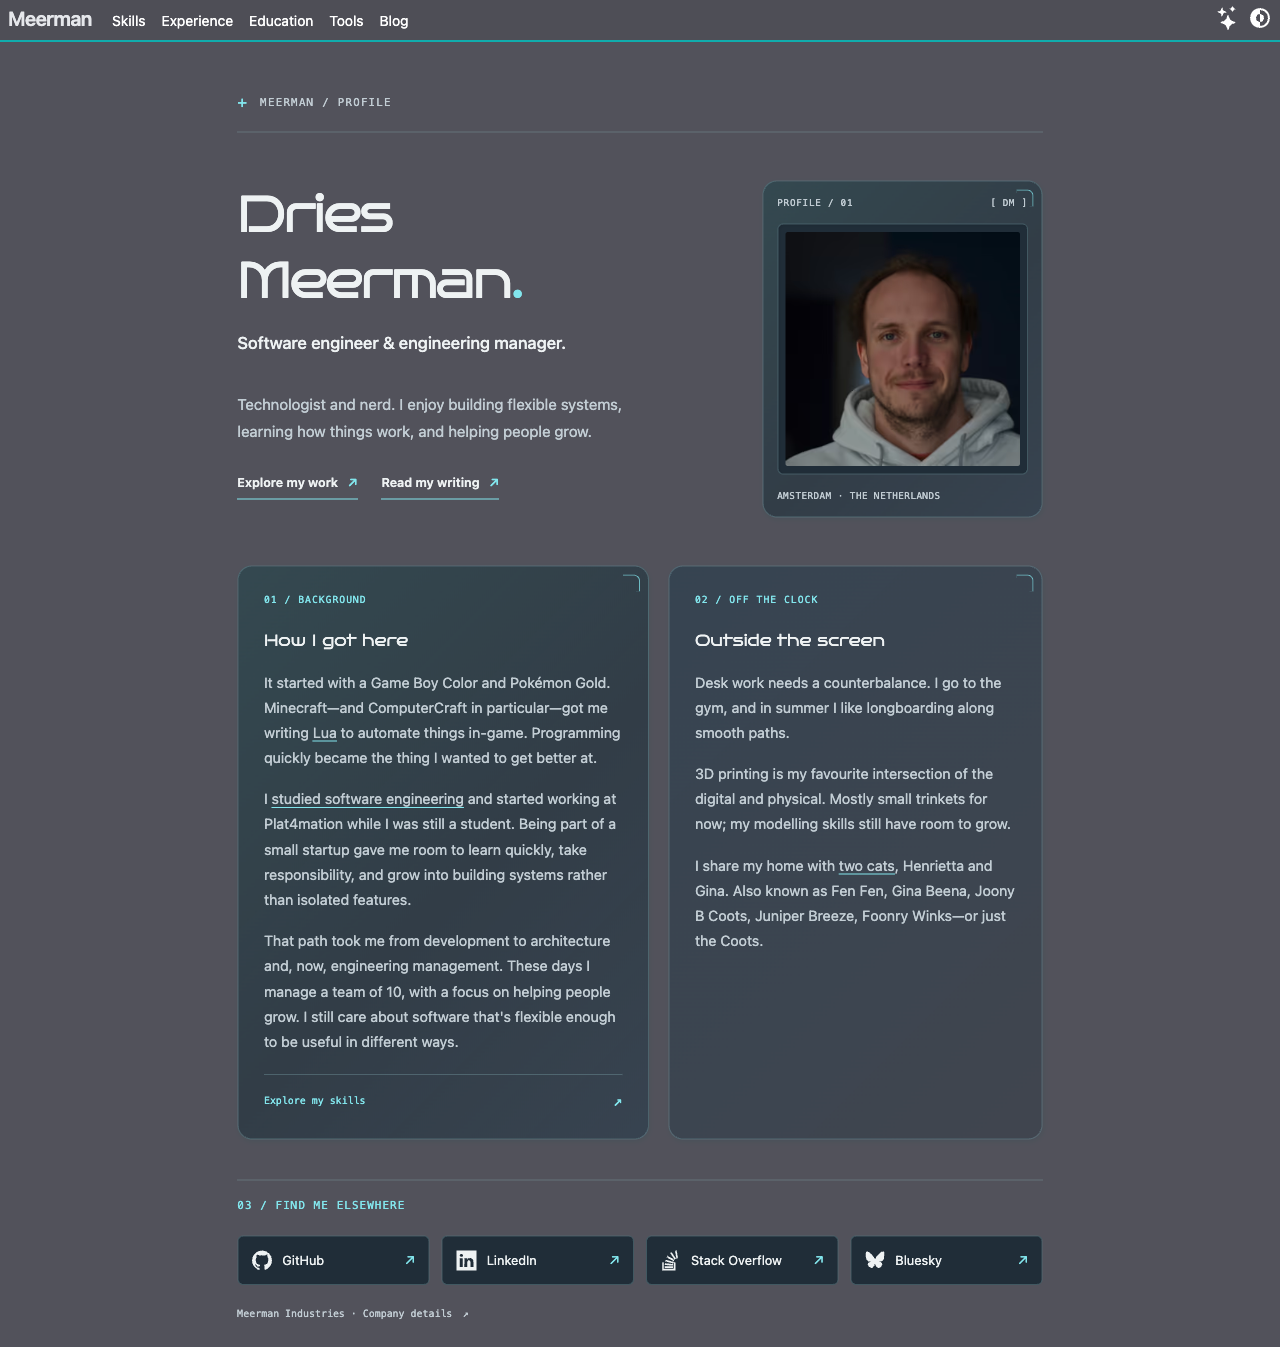
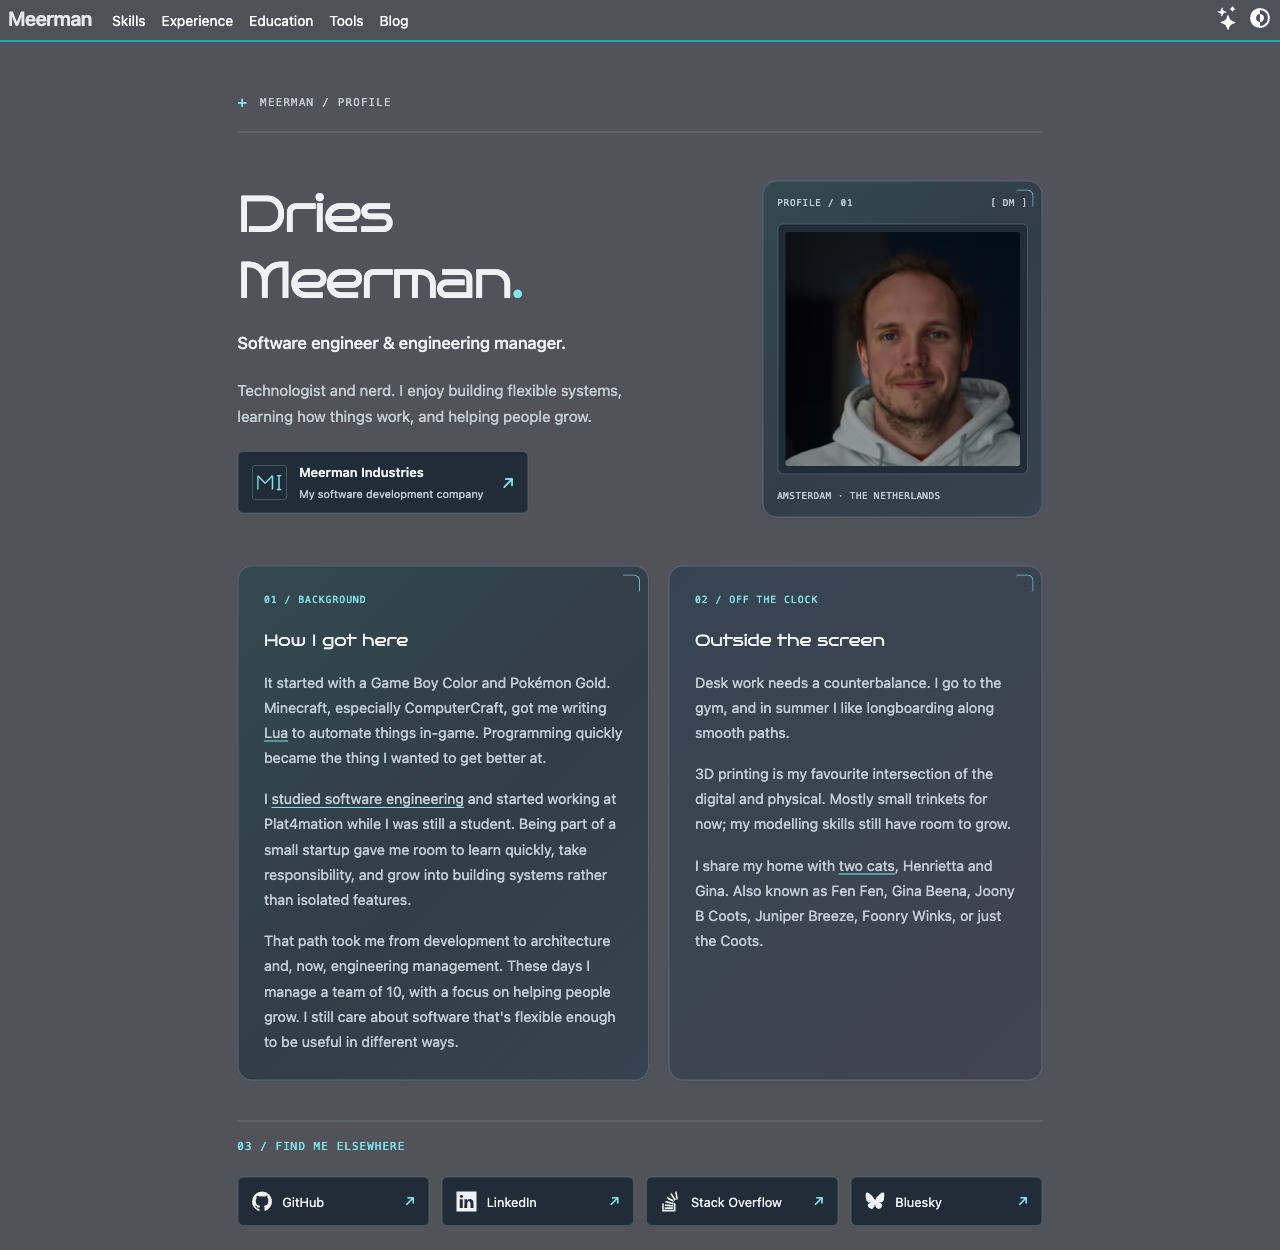
Bring company details into the homepage introduction

diff --git a/src/routes/+page.svelte b/src/routes/+page.svelte
@@ -1,11 +1,12 @@
 <script>
   import Person from '$lib/home/Person.svelte';
   import Socials from '$lib/home/Socials.svelte';
+  import { company } from '$lib/data/companyData.js';
 </script>
 
 <svelte:head>
   <title>Dries Meerman · Software engineer &amp; engineering manager</title>
-  <meta name="description" content="Dries Meerman — software engineer, engineering manager, technologist, and nerd based in Amsterdam. My background, interests, work, and writing." />
+  <meta name="description" content="Dries Meerman is a software engineer, engineering manager, technologist, and nerd based in Amsterdam. My background, interests, work, and writing." />
 </svelte:head>
 
 <div class="home-profile profile-theme">
@@ -22,10 +23,18 @@
     <p class="hero-intro">
       Technologist and nerd. I enjoy building flexible systems, learning how things work, and helping people grow.
     </p>
-    <div class="hero-links">
-      <a href="/experience">Explore my work <span aria-hidden="true">↗</span></a>
-      <a href="/blog">Read my writing <span aria-hidden="true">↗</span></a>
-    </div>
+    <a class="company-intro" href="/industries" aria-labelledby="home-company-name" aria-describedby="home-company-description">
+      <span class="company-symbol" aria-hidden="true">
+        <svg viewBox="40 38 142 92" fill="none">
+          <path d="M50 120V48L88 88L126 48V120M160 48V120M148 48H172M148 120H172" stroke="currentColor" stroke-width="7" stroke-linejoin="bevel" />
+        </svg>
+      </span>
+      <span class="company-copy">
+        <span id="home-company-name" class="company-name">{company.name}</span>
+        <span id="home-company-description" class="company-description">My software development company</span>
+      </span>
+      <span class="company-arrow" aria-hidden="true">↗</span>
+    </a>
   </Person>
 
   <div class="biography-grid">
@@ -33,7 +42,7 @@
       <p class="card-label" aria-hidden="true">01 / Background</p>
       <h2 id="background-title">How I got here</h2>
       <p>
-        It started with a Game Boy Color and Pokémon Gold. Minecraft—and ComputerCraft in particular—got me
+        It started with a Game Boy Color and Pokémon Gold. Minecraft, especially ComputerCraft, got me
         writing <a href="https://lua.org/">Lua</a> to automate things in-game. Programming quickly became
         the thing I wanted to get better at.
       </p>
@@ -47,7 +56,6 @@
         manage a team of 10, with a focus on helping people grow. I still care about software that's flexible
         enough to be useful in different ways.
       </p>
-      <a class="section-link" href="/skills">Explore my skills <span aria-hidden="true">↗</span></a>
     </section>
 
     <section class="bio-card personal-card profile-panel" aria-labelledby="interests-title">
@@ -62,7 +70,7 @@
       </p>
       <p>
         I share my home with <a href="/cats">two cats</a>, Henrietta and Gina. Also known as Fen Fen, Gina Beena,
-        Joony B Coots, Juniper Breeze, Foonry Winks—or just the Coots.
+        Joony B Coots, Juniper Breeze, Foonry Winks, or just the Coots.
       </p>
     </section>
   </div>
@@ -72,9 +80,6 @@
       <h2 id="connections-title" class="profile-section-title">03 / Find me elsewhere</h2>
     </div>
     <Socials />
-    <p class="company-link">
-      <a href="/industries">Meerman Industries · Company details <span aria-hidden="true">↗</span></a>
-    </p>
   </section>
 </div>
 
@@ -95,10 +100,14 @@
   .title-dot { color: var(--profile-accent); }
   .hero-role { margin: 1rem 0 0; color: var(--profile-ink); font-size: .9rem; font-weight: 500; line-height: 1.6; }
   .hero-intro { margin: 0; max-width: 45ch; color: var(--profile-muted); font-size: .95rem; line-height: 1.75; }
-  .hero-links { display: flex; flex-wrap: wrap; gap: .75rem 1.5rem; margin-top: 1.35rem; }
-  .hero-links a { display: inline-flex; align-items: center; gap: .6rem; padding: .4rem 0; border-bottom: 1px solid var(--profile-accent); color: var(--profile-ink); font-size: .78rem; font-weight: 600; line-height: 1.6; text-decoration: none; }
-  .hero-links span { color: var(--profile-accent); }
-  .hero-links a:hover { color: var(--profile-accent); }
+  .company-intro { display: flex; align-items: center; gap: .75rem; width: fit-content; max-width: 100%; margin-top: 1.35rem; padding: .65rem .85rem; border: 1px solid var(--profile-line); border-radius: .35rem; background: var(--profile-inset); color: var(--profile-ink); text-decoration: none; }
+  .company-symbol { display: flex; align-items: center; justify-content: center; flex: 0 0 2.2rem; height: 2.2rem; border: 1px solid var(--profile-line); border-radius: .2rem; color: var(--profile-accent); }
+  .company-symbol svg { width: 1.7rem; height: 1.2rem; }
+  .company-copy { display: flex; flex-direction: column; gap: .2rem; min-width: 0; }
+  .company-name { font-size: .8rem; font-weight: 600; line-height: 1.5; }
+  .company-description { color: var(--profile-muted); font-size: .68rem; line-height: 1.6; }
+  .company-arrow { margin-left: .4rem; color: var(--profile-accent); }
+  .company-intro:hover { border-color: var(--profile-accent); }
 
   .biography-grid { display: grid; grid-template-columns: minmax(0, 1.1fr) minmax(0, 1fr); gap: 1.2rem; }
   .bio-card { padding: 1.6rem; min-width: 0; }
@@ -109,13 +118,8 @@
   .bio-card p:last-child { margin-bottom: 0; }
   .bio-card p a { text-decoration: underline; text-decoration-color: var(--profile-accent); text-underline-offset: 3px; }
   .bio-card p a:hover { color: var(--profile-accent); }
-  .section-link { display: inline-flex; align-items: center; justify-content: space-between; gap: 1rem; width: 100%; margin-top: .25rem; padding-top: .85rem; border-top: 1px solid var(--profile-line); color: var(--profile-accent); font-family: var(--profile-meta-font); font-size: .62rem; line-height: 1.6; text-decoration: none; }
-  .section-link span { font-size: .95rem; }
 
   .connections { margin-top: 2.5rem; }
-  .company-link { margin: 1.25rem 0 0; font-family: var(--profile-meta-font); font-size: .62rem; line-height: 1.8; color: var(--profile-muted); }
-  .company-link a { display: inline-flex; align-items: center; gap: .65rem; text-decoration: none; }
-  .company-link a:hover { color: var(--profile-accent); }
 
   a:focus-visible { outline: 2px solid var(--profile-accent); outline-offset: 4px; }
 
@@ -130,7 +134,6 @@
 
   @media (max-width: 640px) {
     .bio-card { padding: 1.2rem; }
-    .hero-links { gap: .65rem 1.2rem; }
   }
 
   @media (max-width: 380px) {

diff --git a/docs/guides/STYLE_GUIDE.md b/docs/guides/STYLE_GUIDE.md
@@ -116,12 +116,12 @@ Shared shape tokens are `--profile-radius: .9rem` and `--profile-shadow: 1px 2px
 
 ### Personal homepage
 
-1. Keep the personal profile at `/`. Start with the name, current engineering/leadership role, a concise introduction, and the real portrait. The homepage also links directly to work and writing; the longer background and interests follow below.
+1. Keep the personal profile at `/`. Start with the name, current engineering/leadership role, a concise introduction, and the real portrait. Place the company link directly beneath the introduction so visitors can find it without scrolling on typical desktop and mobile screens. Leave general work and writing navigation in the header; the longer background and interests follow below.
 2. `home/Person.svelte` renders a named `heading` snippet, the introduction/actions as its `children`, and the existing responsive portrait. At desktop widths the portrait sits beside the introduction. Smaller screens use a compact portrait beside the name, with introduction text spanning the full width beneath them.
 3. Use the same inset image frame, thin border, corner mark, and technical caption as the shared design. Preserve the photograph's natural proportions and colours. Load this visible portrait eagerly with responsive AVIF/WebP/fallback sources and high fetch priority.
 4. Split the biography into Background and Off the clock cards. Use real paragraphs and clear headings; keep body copy left-aligned at `1.75` line height. Preserve the personal voice, hobbies, and playful details while making the text easy to scan.
-5. `home/Socials.svelte` uses labelled inset links with the existing social icons and destinations. Four links fit in one row from `1280px`; narrower widths use two columns, and long labels wrap. Keep a discreet company-details link beneath these links.
-6. The hero's two links and the social links have visible keyboard focus. Apply small hover motion only to interactive social links and respect reduced motion. Keep the shared navigation stable.
+5. `home/Socials.svelte` uses labelled inset links with the existing social icons and destinations. Four links fit in one row from `1280px`; narrower widths use two columns, and long labels wrap. The company link uses a compact inset panel in the introduction, the Industries monogram, the shared company name, and a plain description of its purpose.
+6. Company, social, and contextual biography links have visible keyboard focus. Apply small hover motion only to interactive social links and respect reduced motion. Keep the shared navigation stable.
 
 ## 5. Consistency Improvement Backlog
 

diff --git a/docs/reviews/home-profile-redesign/README.md b/docs/reviews/home-profile-redesign/README.md
@@ -1,10 +1,10 @@
 # Personal homepage redesign screenshots
 
-Captured from the production build on 2026-09-29 using Chromium. Desktop viewports are 1280 × 1100; mobile viewports are 390 × 844. Captures show the full page with particles hidden for consistent review. Fonts and the portrait finish loading before capture.
+Captured from the production build on 2026-09-30 using Chromium. Desktop viewports are 1280 × 1100; mobile viewports are 390 × 844. Captures show the full page with particles hidden for consistent review. Fonts and the portrait finish loading before capture.
 
 | View | Light | Dark |
 |------|-------|------|
 | Desktop | [View](home-desktop-light.png) | [View](home-desktop-dark.png) |
 | Mobile | [View](home-mobile-light.png) | [View](home-mobile-dark.png) |
 
-The personal profile remains at `/`: name, role, introduction, and portrait first; background and interests below; labelled social links and the company-details link at the bottom. The portrait uses the existing responsive image assets. Shared styling and homepage composition are documented in the [style guide](../../guides/STYLE_GUIDE.md).
+The personal profile remains at `/`: name, role, introduction, portrait, and a visible Meerman Industries link first; background and interests below; labelled social links at the bottom. General navigation stays in the header. The portrait uses the existing responsive image assets. Shared styling and homepage composition are documented in the [style guide](../../guides/STYLE_GUIDE.md).
